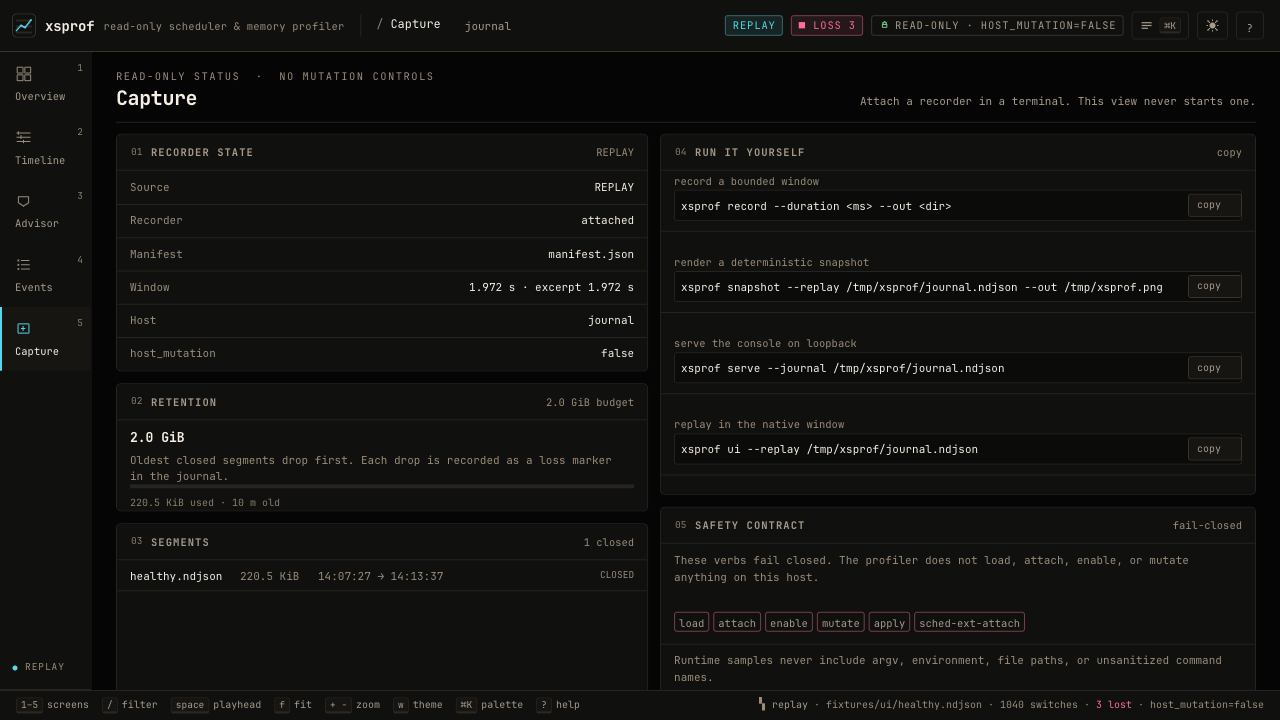
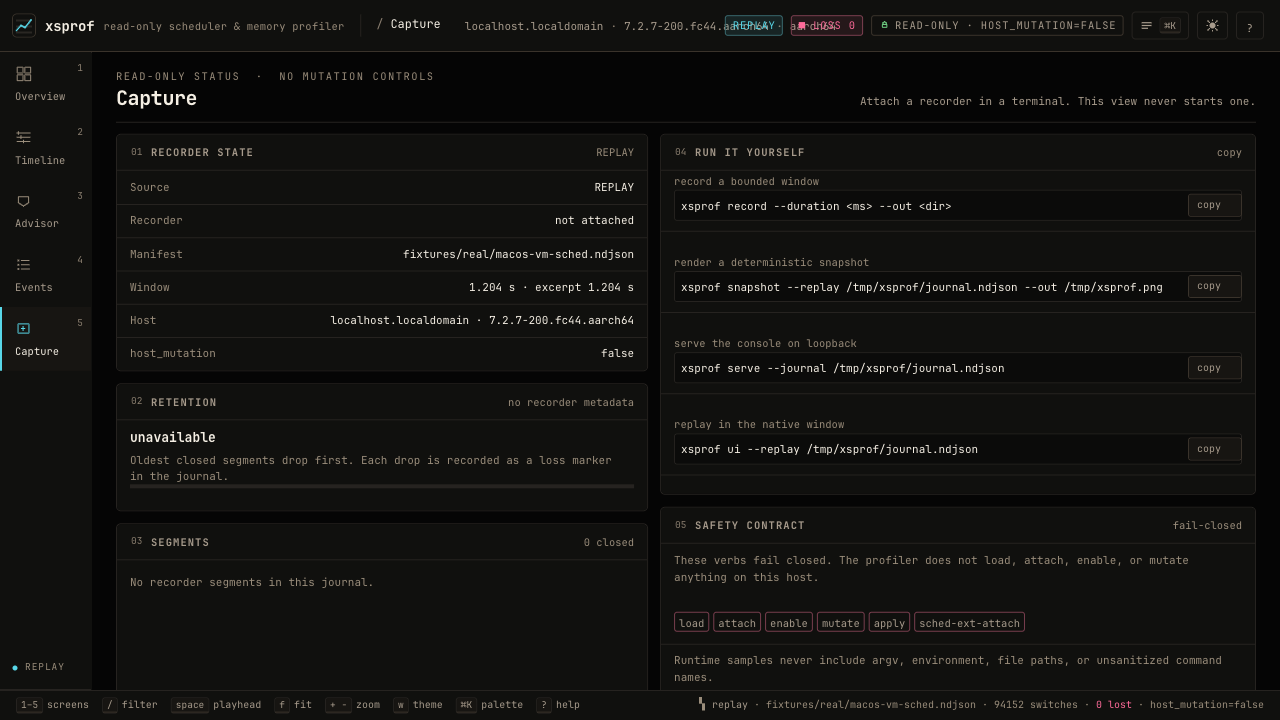
Drive the console with a real Linux-VM capture
Record 110,284 real perf events from the podman Linux VM on this Mac (4 vCPUs, 1.204 s, 94,152 switches, 16,063 page faults), enrich them with real capability/identity markers, and use the capture for the live screenshots and demo video. Document VM provenance and keep the live run's recorder state honest.

diff --git a/fixtures/real/README.md b/fixtures/real/README.md
@@ -24,3 +24,28 @@
 
 This fixture exercises multi-process scheduler activity, page faults, and
 multi-CPU lanes in tests and snapshots.
+
+## macOS Linux VM capture
+
+`macos-vm-sched.ndjson` is the full-fidelity capture used for the current
+console demo video and live screenshots. It was captured on this Mac through
+the disposable podman Linux VM, because macOS has no `perf_event_open` or
+scheduler tracepoints.
+
+- Host: macOS arm64 host, podman `applehv` Fedora 44 VM, kernel
+  `7.2.7-200.fc44.aarch64`, 4 vCPUs.
+- Capture binary: `aarch64-linux-gnu` build of this repository,
+  `xsprof record --duration 1200 --output /tmp/real-vm.ndjson`, run as root
+  inside the VM after setting the VM kernel's `perf_event_paranoid=1`.
+- Workload: four busy `yes` loops plus repeated 8 MiB `dd` writes/removals to
+  exercise scheduler switches, wakeups, migrations, and page faults.
+- Raw result: **110,284 real events** (`94,152` sched switches, `54` wakeups,
+  `15` migrations, `16,063` page faults) over **1.204 s**, 4 CPUs.
+- Enrichment: real capability/marker rows were prepended (actual podman VM,
+  kernel, CPU count, perf/tracefs/PMU state) and a `session_end` marker was
+  appended. The 110,284 captured event rows are unchanged.
+- Every row is canonical `xsprof/event/v1` with `host_mutation:false`.
+- The file is the full capture, not a prefix or interpolation.
+- Console source reads `REPLAY`; it is a replay of a real capture, not a live
+  host claim. Header identity comes from the `ui_host`, `ui_kernel`, and
+  `ui_arch` markers.

diff --git a/README.md b/README.md
@@ -85,8 +85,8 @@ python3 design/validate.py   # source hash + token/palette/CSS consistency
 
 - Prototype reference: [`design/screenshots/prototype/`](design/screenshots/prototype/)
 - GPU console: [`design/screenshots/xsprof/`](design/screenshots/xsprof/)
-- Real replay + recorder: [`design/screenshots/live/`](design/screenshots/live/)
-- Short boot/use video: [`design/media/xsprof-ui-demo.mp4`](design/media/xsprof-ui-demo.mp4)
+- Real Linux-VM perf capture: [`fixtures/real/macos-vm-sched.ndjson`](fixtures/real/macos-vm-sched.ndjson) and [`design/screenshots/live/`](design/screenshots/live/)
+- Short boot/use video over the real capture: [`design/media/xsprof-ui-demo.mp4`](design/media/xsprof-ui-demo.mp4)
 - Formal UI contract: [`design/ui-spec.json`](design/ui-spec.json)
 - Cross-surface report: [`design/evidence/cross_surface.json`](design/evidence/cross_surface.json)
 - Evidence method: [`design/evidence/README.md`](design/evidence/README.md)

diff --git a/AGENTS.md b/AGENTS.md
@@ -102,4 +102,7 @@ evidence is developer-only under `design/evidence/` (`qa/ui_evidence.sh`).
 `design/ui-spec.json` is the formal runtime contract; CPU is canonical and
 `qa/ui_cross_surface.py` gates Metal/WebGL2 against it. Reference diffs are
 advisory, not acceptance criteria. Keyboard focus, clipboard, and brush are
-covered by `qa/ui_interactions.cjs`.
+covered by `qa/ui_interactions.cjs`. The committed real capture
+`fixtures/real/macos-vm-sched.ndjson` comes from the podman Linux VM (macOS has
+no perf/tracepoint capture); live screenshots and video replay it, marked
+`REPLAY` and `host_mutation=false`.

diff --git a/design/README.md b/design/README.md
@@ -10,6 +10,8 @@ prototype rather than approximating it.
 - Source size: 221,754 bytes
 - Token set version: `1.0.0`
 - Reference viewports: web `1440x900 @1`, native `1280x720 @1`
+- Real capture evidence: [`fixtures/real/macos-vm-sched.ndjson`](../fixtures/real/macos-vm-sched.ndjson)
+  (Linux VM perf, 110,284 events) drives the live screenshots and video.
 - Status: implemented as the primary GPU console (`src/app/design/`,
   `lib/xsui/src/canvas.zig`). The formal contract is
   [`ui-spec.json`](ui-spec.json); CPU is canonical and CPU/Metal/WebGL2 are
